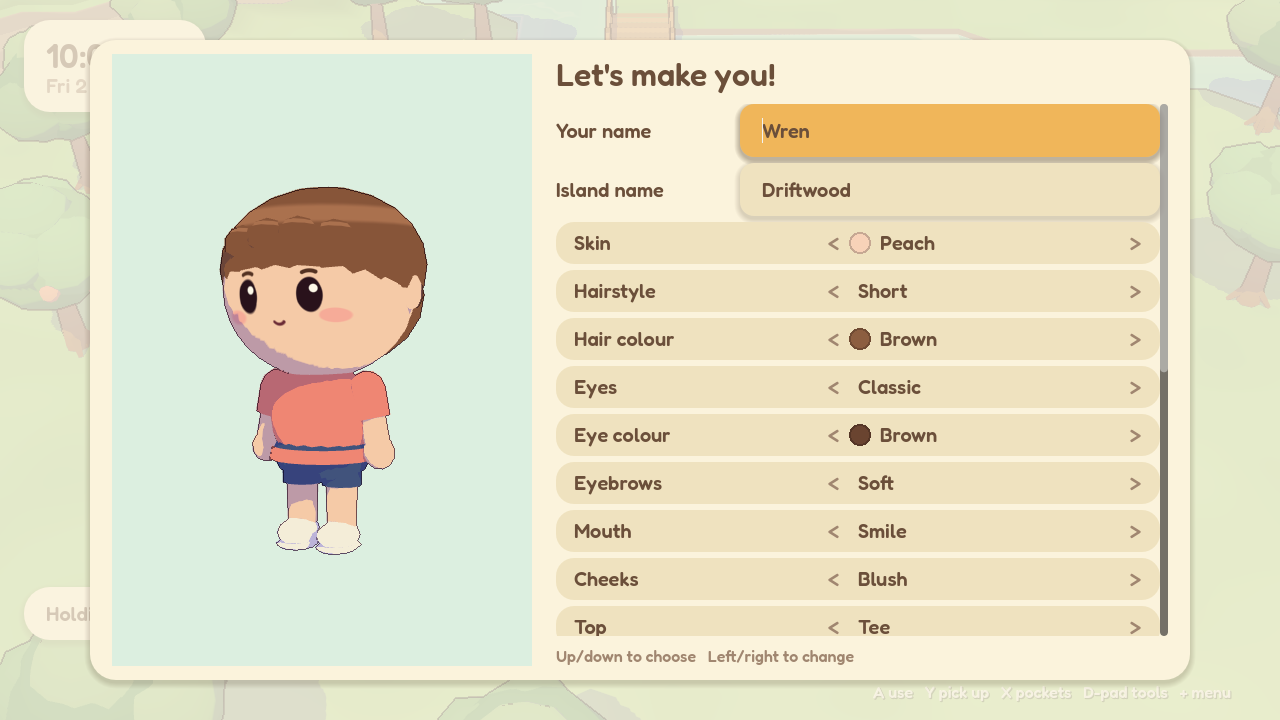
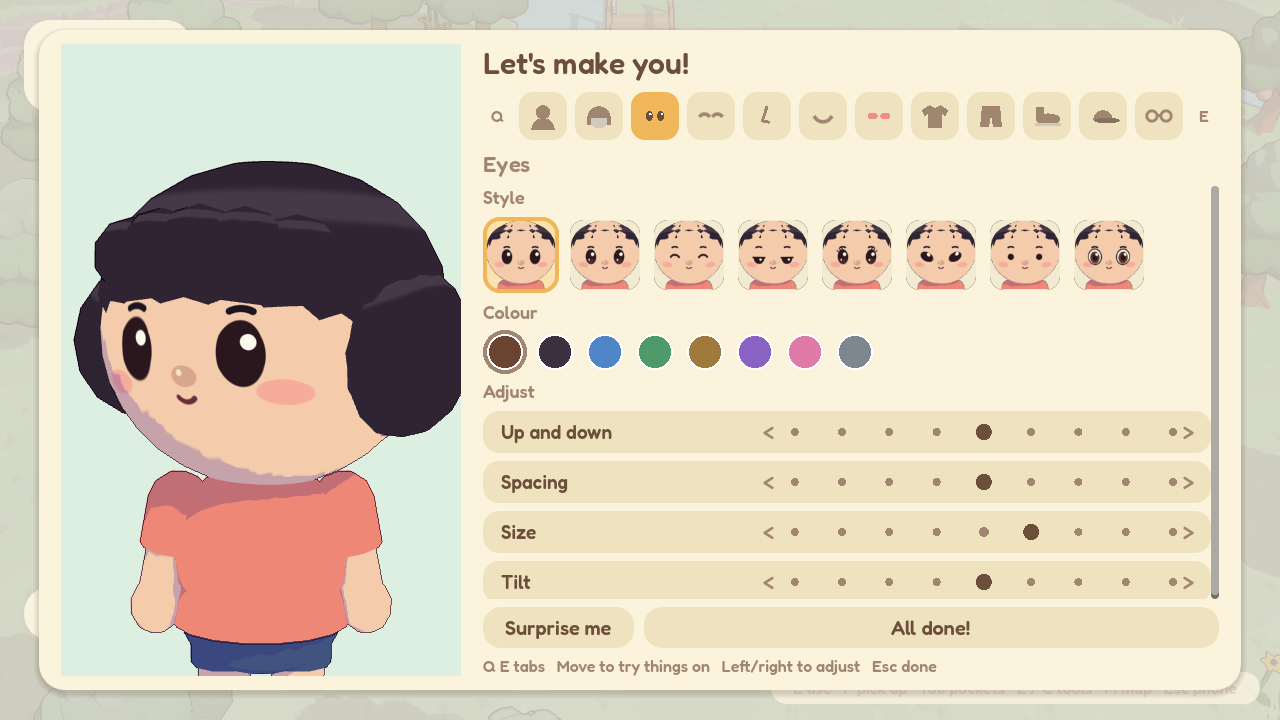
Docs: creator, phone, beds, wallpaper; fresh screenshots
Claude-Session: https://claude.ai/code/session_01UJJzA2PM6QsdyLdV8aiv2e

diff --git a/README.md b/README.md
@@ -12,9 +12,9 @@ A cosy island life game about crafting and decorating, made with Godot 4.
 | --- | --- | --- |
 | ![](docs/screenshots/furniture.png) | ![](docs/screenshots/dusk.png) | ![](docs/screenshots/river.png) |
 
-| Character creator | DIY workbench | Pockets |
+| Character creator | Island Phone | DIY workbench |
 | --- | --- | --- |
-| ![](docs/screenshots/creator.png) | ![](docs/screenshots/crafting.png) | ![](docs/screenshots/pockets.png) |
+| ![](docs/screenshots/creator.png) | ![](docs/screenshots/phone.png) | ![](docs/screenshots/crafting.png) |
 
 ![Characters](docs/screenshots/characters.png)
 
@@ -39,7 +39,8 @@ Add `-- --new` to start a fresh island, or `-- --seed=123` for a specific one.
 | Switch tool | D-pad left/right | Z / C |
 | Rotate while placing | R | R |
 | Map | - | M |
-| Island Phone (time travel, wardrobe, save) | + | Esc / P |
+| Island Phone (map, wardrobe, time travel, save) | + | Esc / P |
+| Switch tabs in menus | L / R | Q / E |
 
 On-screen hints follow whatever you last touched, keyboard or controller.
 
@@ -48,14 +49,18 @@ On-screen hints follow whatever you last touched, keyboard or controller.
 - A random island from a seed: beach, cliffs, rivers with a bridge, ponds, ramps,
   a native fruit and flower. Coastlines, cliffs and riverbanks are rounded off.
 - Pastel cel-shaded look with ink outlines and a day/night cycle.
-- Character creator and wardrobe: 14 hairstyles, 16 hair colours, 8 eye styles,
-  mouths, brows, cheeks, 8 skin tones, 9 tops with 9 patterns, bottoms, shoes,
-  hats and glasses.
+- Character creator and wardrobe with icon tabs and pictures of every option: 14
+  hairstyles, 16 hair colours, 8 eye styles, brows, noses, mouths, cheeks, 8 skin
+  tones, 9 tops with 9 patterns, bottoms, shoes, hats, bows and glasses. Face
+  features can be moved, spaced, sized and tilted, Mii-style, and some hats can be
+  worn different ways (bows on either side or the back, caps backwards).
 - Poppy (a long-haired cat who runs the Island Office) welcomes you and hands over
   your tent; Lucy (a Jack Russell who does odd jobs) explains the workbench. Both
   have things to say every day.
 - A paved plaza with the office marquee and the DIY workbench.
-- Go inside your tent and decorate it: furniture, seats and table tops work indoors.
+- Go inside your tent and decorate it: furniture, seats and table tops work indoors,
+  plus wallpaper and flooring. Sleep in a bed or sleeping bag until morning, noon,
+  evening or midnight.
 - Chop wood, shake trees for fruit and branches (and the odd piece of furniture), hit
   rocks for stone, clay and iron (one rock a day gives acorns).
 - DIY workbench with 32 recipes: tools and furniture. Message bottles wash up each day
@@ -66,6 +71,7 @@ On-screen hints follow whatever you last touched, keyboard or controller.
 - An animated player with knees and elbows: walking, running, chopping, sitting.
 - Minimap and a full island map.
 - Pockets with item icons, stacking and tools that wear out.
-- Real-time clock with time travel from the Island Phone. Autosave.
+- Real-time clock. The Island Phone has the map, wardrobe, controls, saving and (for
+  now) a time travel app. Autosave.
 
 See [docs/DESIGN.md](docs/DESIGN.md) for the full plan.

diff --git a/docs/DESIGN.md b/docs/DESIGN.md
@@ -76,8 +76,8 @@ items donated). Rough order:
 6. **Island makeover.** Path tool, then terraforming (cliffs), waterscaping (rivers and
    ponds), and the rock-moving tool. Bridges and ramps become buildable anywhere.
 
-Time travel: the pause menu ("Island Phone") moves the clock forwards or back by hours or
-days. Daily resets (wood, rocks, fruit regrowth) happen at 5am island time.
+Time travel: sleeping in a bed moves the clock on to morning, noon, evening or midnight.
+For testing, the Island Phone's time travel app moves it forwards or back by hours or days. Daily resets (wood, rocks, fruit regrowth) happen at 5am island time.
 
 ## Systems roadmap
 
@@ -109,9 +109,17 @@ Milestone 3:
 - [x] Tent interior with floor, walls and indoor decorating; rooms saved per home
 - [x] Paved plaza with the Island Office; Poppy and Lucy with dialogue and an intro
 
+Milestone 3b:
+- [x] Rivers no longer run along beaches (generator version 2; old islands keep theirs)
+- [x] Character creator with tabs, option pictures, Mii-style face adjustments, noses,
+      hat positions
+- [x] Island Phone with apps; sleeping in beds moves time on
+- [x] Wallpaper and flooring items
+
 Next milestones (suggested order):
-3b. Wallpaper and flooring items; house upgrade path (tent, house, bigger house) with
-   Poppy. Clothes as items instead of everything unlocked. Lucy's shop.
+3c. Lucy's shop (selling things for acorns, a daily stock), then the house upgrade path
+   (tent, house, bigger house) through Poppy. Clothes as items instead of everything
+   unlocked. Time travel moves out of the phone into an options menu.
 4. Daily visitors and the first animal neighbours (homes, schedules).
 5. Fishing, bug catching, the museum.
 6. Island tours to random islands (reusing the generator with different seeds).

diff --git a/CLAUDE.md b/CLAUDE.md
@@ -17,11 +17,13 @@ the network allows it, otherwise a build from source (about 30 minutes on 4 core
 - Check every script parses: `tools/check_scripts.sh` (run this first; GDScript treats
   inferred-Variant types as errors, so type loop variables over literal arrays).
 - Art check scenes (render with `tools/screenshot_scene.sh out.png res://tools/<scene>`):
-  `character_lineup.tscn` (`--seed`, `--angle`, `--vary=KEY`, `--poses`, `--npcs`),
+  `character_lineup.tscn` (`--seed`, `--angle`, `--vary=KEY`, `--base=k:v`, `--poses`,
+  `--npcs`, `--close`),
   `model_gallery.tscn` (`--drops`, `--keys`, `--only=id,id`), `calibrate.tscn`
   (`-- --shadows`, checks the cel lighting maths).
 - Game screenshot options are listed at the top of `scripts/main.gd` (`--demo`,
-  `--demo=decor|sit|home`, `--ui=pockets|pause|map|creator|crafting|placing|intro|ask|lucy`,
+  `--demo=decor|sit|home`, `--ui=pockets|pause|map|creator|crafting|placing|intro|ask|lucy|sleep`,
+  `--tab=N` and `--try=key:id` for the creator, `--room=wallpaper,flooring`, `--gen=N`,
   `--at=X,Z`, `--hour`).
 
 ## Layout
@@ -38,6 +40,8 @@ the network allows it, otherwise a build from source (about 30 minutes on 4 core
   `IslandData.room()`; `main.gd` swaps between the island and the room.
 - `Story` (autoload) holds conversation progress and every character's lines;
   `DialogueBox` shows them. Await its `finished`/`picked` signals, not coroutines.
+- Island generation is versioned (`IslandGenerator.VERSION`, saved as "gen"): bump it
+  for changes that would reshape existing islands, and keep the old behaviour behind it.
 - Worker-thread tasks must always be collected (`IslandMap.finish()`), or Godot
   crashes on quit.
 - `shaders/`: every world shader includes `include/world.gdshaderinc` and runs vertices
